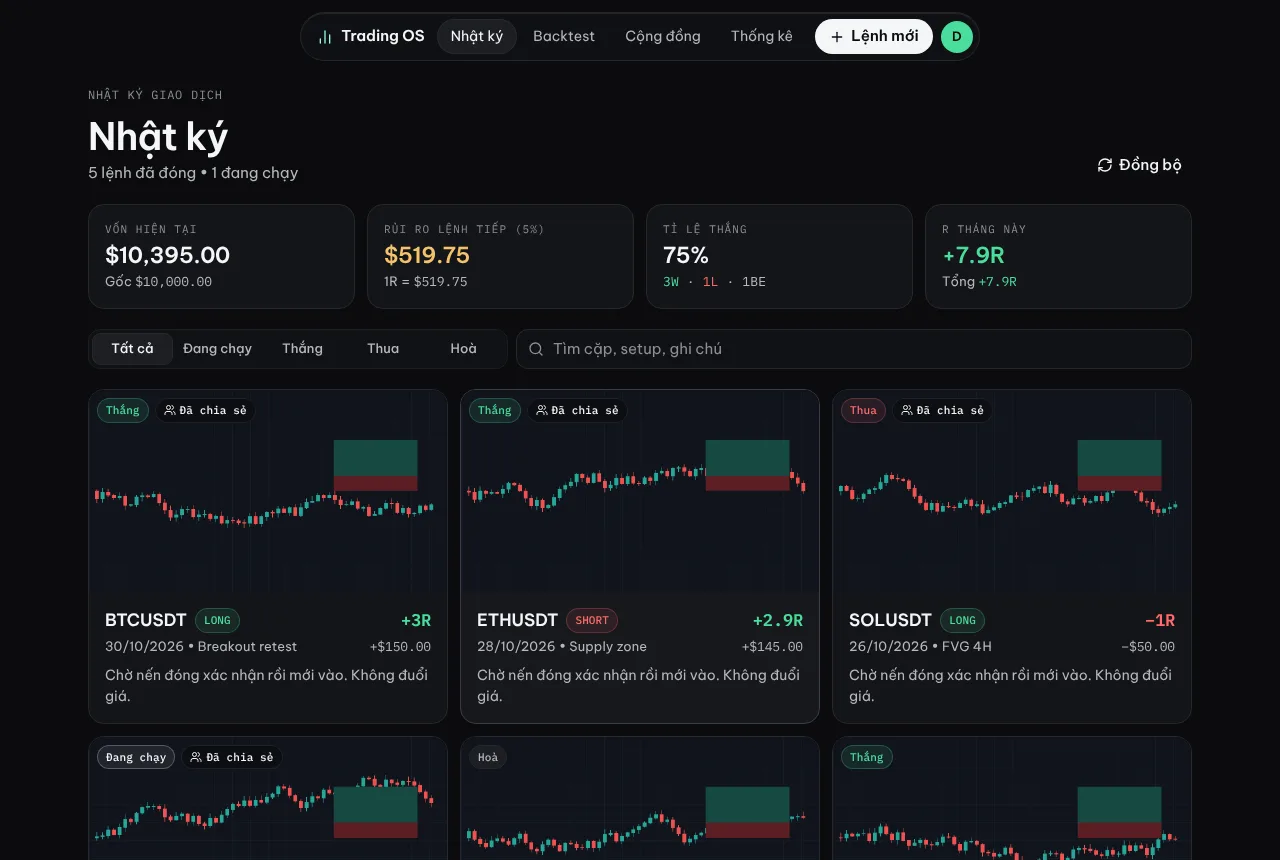
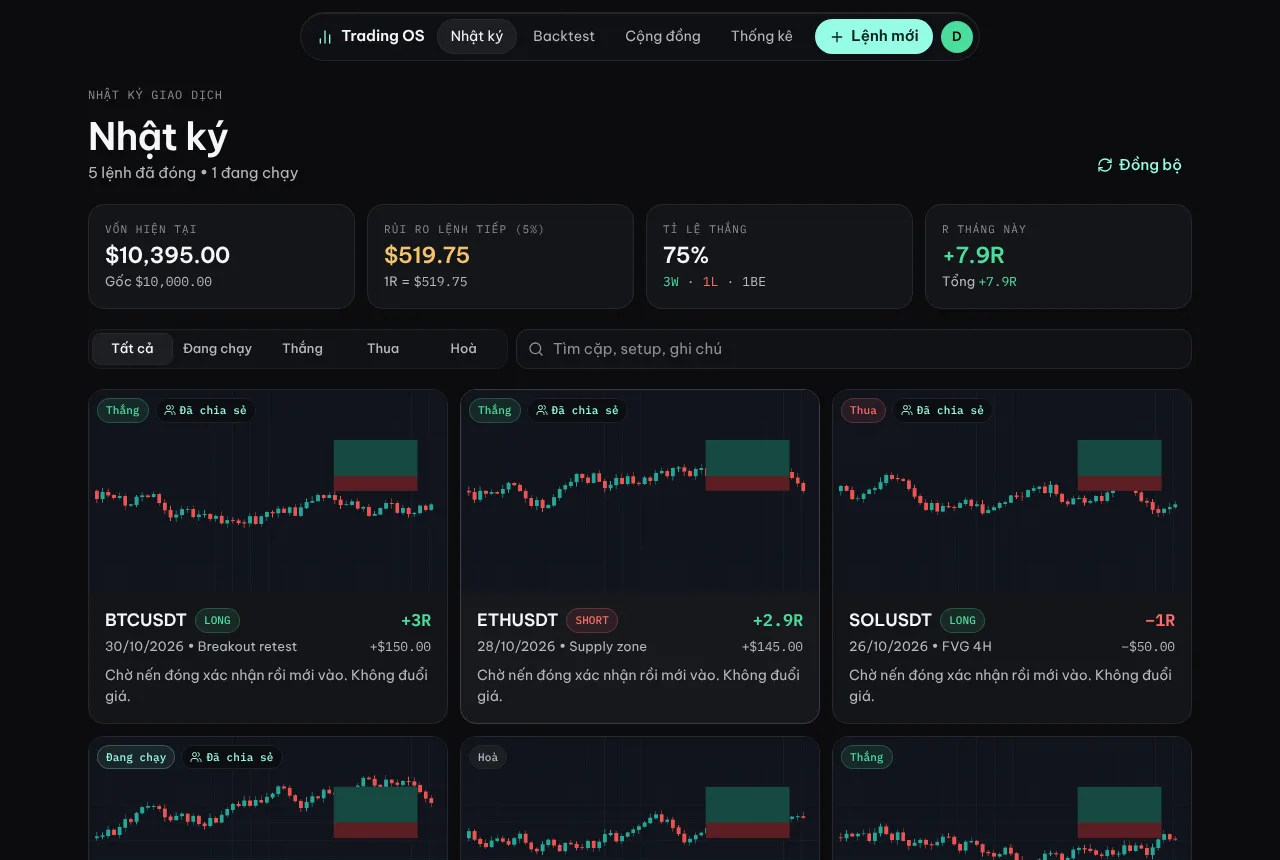
Trading OS: màu nhấn xanh mint Hyperliquid thay cho trắng
Claude-Session: https://claude.ai/code/session_01RFgvyxNyVJNJhwrminozVg

diff --git a/trading/index.html b/trading/index.html
@@ -29,7 +29,7 @@
                     colors: {
                         canvas: '#0B0C0E', fill: '#101115', line: '#26282E',
                         ink: { DEFAULT: '#F5F6F7', 2: '#B5B8BF', 3: '#8B8F98' },
-                        accent: { DEFAULT: '#F5F6F7', hover: '#FFFFFF', tint: '#24262C' },
+                        accent: { DEFAULT: '#97FCE4', hover: '#B8FDEC', tint: '#12302A' },
                         up: { DEFAULT: '#4ADE9B', solid: '#4ADE9B', tint: '#11291F' },
                         down: { DEFAULT: '#FF6B6B', solid: '#FF6B6B', tint: '#2E1617' },
                         warn: { DEFAULT: '#F5C26B', solid: '#F5C26B', tint: '#2E2614' },
@@ -49,7 +49,7 @@
             --canvas: #0B0C0E; --surface: #141519; --raise: #1C1E23; --well: #101115;
             --line: #26282E; --line-soft: #1C1E22;
             --ink: #F5F6F7; --ink-2: #B5B8BF; --ink-3: #8B8F98;
-            --mint: #F5F6F7; --mint-hover: #FFFFFF; --up: #4ADE9B; --down: #FF6B6B; --warn: #F5C26B;
+            --mint: #97FCE4; --mint-hover: #B8FDEC; --up: #4ADE9B; --down: #FF6B6B; --warn: #F5C26B;
             --mono: "IBM Plex Mono", ui-monospace, monospace;
             --spring: cubic-bezier(0.22, 1, 0.36, 1);
             --tabbar-h: 64px;
@@ -57,7 +57,7 @@
         [x-cloak] { display: none !important; }
         html { -webkit-font-smoothing: antialiased; -moz-osx-font-smoothing: grayscale; text-rendering: optimizeLegibility; }
         body { background: var(--canvas); color: var(--ink); -webkit-tap-highlight-color: transparent; }
-        ::selection { background: rgba(245,246,247,0.25); }
+        ::selection { background: rgba(151,252,228,0.25); }
         .num { font-family: var(--mono); font-variant-numeric: tabular-nums; letter-spacing: -0.01em; }
         .title-lg { font-size: 38px; line-height: 1.1; font-weight: 600; letter-spacing: -0.02em;
                     background: linear-gradient(90deg, #F5F6F7 0%, #F5F6F7 55%, #B5B8BF 100%); -webkit-background-clip: text; background-clip: text; color: transparent; }
@@ -70,7 +70,7 @@
         .caption { font-size: 13px; color: var(--ink-2); }
         /* Nhãn mono viết hoa, có chấm — kiểu "● CHIẾN LƯỢC ĐANG CHẠY" */
         .eyebrow { font-family: var(--mono); font-size: 12px; letter-spacing: 0.14em; text-transform: uppercase; color: var(--mint); display: inline-flex; align-items: center; gap: 8px; }
-        .eyebrow::before { content: ""; width: 6px; height: 6px; border-radius: 99px; background: var(--mint); box-shadow: 0 0 10px rgba(245,246,247,0.6); }
+        .eyebrow::before { content: ""; width: 6px; height: 6px; border-radius: 99px; background: var(--mint); box-shadow: 0 0 10px rgba(151,252,228,0.6); }
         .card > .caption:first-child, .well > .caption:first-child { font-family: var(--mono); font-size: 11px; letter-spacing: 0.1em; text-transform: uppercase; color: var(--ink-3); }
 
         .card { background: var(--surface); border: 1px solid var(--line); border-radius: 16px; }
@@ -84,7 +84,7 @@
         .btn:not(:disabled):active, .press:not(:disabled):active { transform: scale(0.97); transition-duration: 80ms; }
         .press { transition: transform 220ms var(--spring), background-color 150ms, color 150ms; }
         .btn:disabled { opacity: 0.45; }
-        .btn-primary { background: var(--mint); color: #0B0C0E; font-weight: 600; }
+        .btn-primary { background: var(--mint); color: #04201B; font-weight: 600; }
         .btn-primary:hover { background: var(--mint-hover); }
         .btn-gray { background: var(--raise); color: var(--ink); border: 1px solid var(--line); }
         .btn-gray:hover { border-color: #3A3D45; }
@@ -100,7 +100,7 @@
         .seg > button.on { background: var(--raise); color: var(--ink); box-shadow: inset 0 0 0 1px var(--line); }
 
         .field { width: 100%; background: var(--well); border: 1px solid var(--line); border-radius: 12px; padding: 10px 12px; font-size: 16px; color: var(--ink); transition: border-color 150ms, box-shadow 150ms; }
-        .field:focus { outline: none; border-color: var(--mint); box-shadow: 0 0 0 3px rgba(245,246,247,0.14); }
+        .field:focus { outline: none; border-color: var(--mint); box-shadow: 0 0 0 3px rgba(151,252,228,0.14); }
         .field::placeholder { color: var(--ink-3); }
         input[type=date].field { color-scheme: dark; }
         .label { display: block; font-family: var(--mono); font-size: 11px; letter-spacing: 0.1em; text-transform: uppercase; color: var(--ink-3); margin-bottom: 6px; }
@@ -109,15 +109,15 @@
         .chip-up { background: rgba(74,222,155,0.1); color: var(--up); border-color: rgba(74,222,155,0.25); }
         .chip-down { background: rgba(255,107,107,0.1); color: var(--down); border-color: rgba(255,107,107,0.25); }
         .chip-gray { background: var(--raise); color: var(--ink-2); border-color: var(--line); }
-        .chip-blue { background: rgba(245,246,247,0.08); color: var(--mint); border-color: rgba(245,246,247,0.25); }
+        .chip-blue { background: rgba(151,252,228,0.08); color: var(--mint); border-color: rgba(151,252,228,0.25); }
         .chip-warn { background: rgba(245,194,107,0.1); color: var(--warn); border-color: rgba(245,194,107,0.25); }
         .chip-violet { background: rgba(185,162,255,0.1); color: #B9A2FF; }
         .chip-glass { background: rgba(11,12,14,0.72); color: var(--ink); border-color: rgba(255,255,255,0.08); -webkit-backdrop-filter: blur(8px); backdrop-filter: blur(8px); }
 
         .slot { position: relative; aspect-ratio: 4 / 3; border-radius: 12px; border: 1px dashed var(--line); background: var(--well); overflow: hidden; cursor: pointer; transition: border-color 150ms, background-color 150ms; }
         .slot:hover { border-color: #3A3D45; }
-        .slot.active { border: 1px solid var(--mint); background: rgba(245,246,247,0.05); box-shadow: 0 0 0 3px rgba(245,246,247,0.08); }
-        .slot.drop { border-color: var(--mint); background: rgba(245,246,247,0.08); }
+        .slot.active { border: 1px solid var(--mint); background: rgba(151,252,228,0.05); box-shadow: 0 0 0 3px rgba(151,252,228,0.08); }
+        .slot.drop { border-color: var(--mint); background: rgba(151,252,228,0.08); }
         .slot img { position: absolute; inset: 0; width: 100%; height: 100%; object-fit: cover; }
 
         .tabbar { height: calc(var(--tabbar-h) + env(safe-area-inset-bottom)); padding-bottom: env(safe-area-inset-bottom); }
@@ -150,7 +150,7 @@
         .prose-dnc h3 { font-size: 19px; font-weight: 600; color: var(--ink); margin-top: 1.5em; }
         .prose-dnc ul { padding-left: 1.2em; list-style: disc; } .prose-dnc ol { padding-left: 1.4em; list-style: decimal; }
         .prose-dnc li + li { margin-top: 0.35em; } .prose-dnc li::marker { color: var(--mint); }
-        .prose-dnc a { color: var(--mint); text-decoration: underline; text-underline-offset: 3px; text-decoration-color: rgba(245,246,247,0.4); }
+        .prose-dnc a { color: var(--mint); text-decoration: underline; text-underline-offset: 3px; text-decoration-color: rgba(151,252,228,0.4); }
         .prose-dnc strong { color: var(--ink); font-weight: 600; }
         .prose-dnc code { font-family: var(--mono); font-size: 0.88em; background: var(--raise); border: 1px solid var(--line); border-radius: 6px; padding: 1px 6px; }
         .prose-dnc blockquote { border-left: 2px solid var(--mint); padding-left: 16px; color: var(--ink-2); }
@@ -166,7 +166,7 @@
         @media (prefers-reduced-transparency: reduce) { .bar, .capsule, .sheet-head, .toast { background: #141519 !important; -webkit-backdrop-filter: none; backdrop-filter: none; } }
         @media (prefers-contrast: more) { .card, .field, .seg { border-color: #8B8F98; } }
             /* ── THEME _tread_tmp ── */
-        :root { --head: "Be Vietnam Pro", system-ui, sans-serif; --accent-c: #F5F6F7; }
+        :root { --head: "Be Vietnam Pro", system-ui, sans-serif; --accent-c: #97FCE4; }
         .title-xl, .title-lg, .title-md, .title-sm { font-family: var(--head); }
         .title-xl, .title-lg { background: none; color: var(--ink); -webkit-text-fill-color: currentColor; }
         .card { border-radius: calc(10px + 6px); }
@@ -219,14 +219,14 @@
         .lp-glow { inset: -40% -20% auto; height: 700px; background: radial-gradient(45% 55% at 50% 30%, rgba(120,150,170,.22), transparent 70%); }
         .lp-horizon { display: none; }
         .lp-h1 .fade { background: none; color: var(--ink); -webkit-text-fill-color: currentColor; }
-        .lp-h1 .hl { color: var(--ink); position: relative; padding: 0 8px; outline: 1.5px solid #6E8BFF; outline-offset: 2px;
-            background: rgba(110,139,255,.12); box-shadow: -3px -3px 0 -1px #fff, 3px 3px 0 -1px #fff; }
+        .lp-h1 .hl { color: var(--ink); position: relative; padding: 0 8px; outline: 1.5px solid #97FCE4; outline-offset: 2px;
+            background: rgba(151,252,228,.10); box-shadow: -3px -3px 0 -1px #fff, 3px 3px 0 -1px #fff; }
         .lp-frame > div { transform: none; border-radius: 22px; box-shadow: 0 40px 120px rgba(0,0,0,.6); border-color: #2C2E35; }
         .lp-h1 .hl { display: inline-block; line-height: 1.12; margin: 10px 0 12px; }
         @media (max-width: 640px) { .lp-frame { margin-top: 8px !important; } .lp-h1 .hl { margin: 8px 0 10px; } }
         .bento { background: #121317; border-radius: 22px; }
-        .seg.lp-seg > button.on { box-shadow: inset 0 0 0 1px #fff; }
-        .text-accent { color: #F5F6F7; }
+        .seg.lp-seg > button.on { box-shadow: inset 0 0 0 1px #97FCE4; }
+        .text-accent { color: #97FCE4; }
         .lucide-chart-no-axes-column { color: #97FCE4; }
                 /* ── Lớp Apple: vật liệu mờ, phản hồi khi nhấn, chữ theo cỡ, chuyển động mềm ── */
         :root { --spring: cubic-bezier(0.32, 0.72, 0, 1); }
@@ -258,6 +258,8 @@
         @media (prefers-reduced-motion: reduce) { .sheet { animation: fade-in 200ms ease both !important; } .ticker-row { animation: none; } }
         @media (prefers-reduced-transparency: reduce) { .capsule, .lp-nav.scrolled, .bar, .sheet-head, .toast { background: #141519 !important; -webkit-backdrop-filter: none; backdrop-filter: none; } }
         
+        
+        .lp-glow { background: radial-gradient(45% 55% at 50% 30%, rgba(80,210,193,.16), transparent 70%); }
         
 
     </style>
@@ -2266,7 +2268,7 @@ Return ONLY a raw JSON object, no markdown, no explanation:
             },
             readMin(body) { return Math.max(1, Math.round(String(body || '').split(/\s+/).length / 220)); },
             avatarColor(name) {
-                const colors = ['#F5F6F7', '#4ADE9B', '#F5C26B', '#B9A2FF', '#FF6B6B', '#8FB8FF', '#6FD6E8', '#D9C3A0'];   // nền sáng, chữ tối
+                const colors = ['#97FCE4', '#4ADE9B', '#F5C26B', '#B9A2FF', '#FF6B6B', '#8FB8FF', '#6FD6E8', '#D9C3A0'];   // nền sáng, chữ tối
                 let h = 0; for (const ch of String(name || '')) h = (h * 31 + ch.charCodeAt(0)) >>> 0;
                 return colors[h % colors.length];
             },
